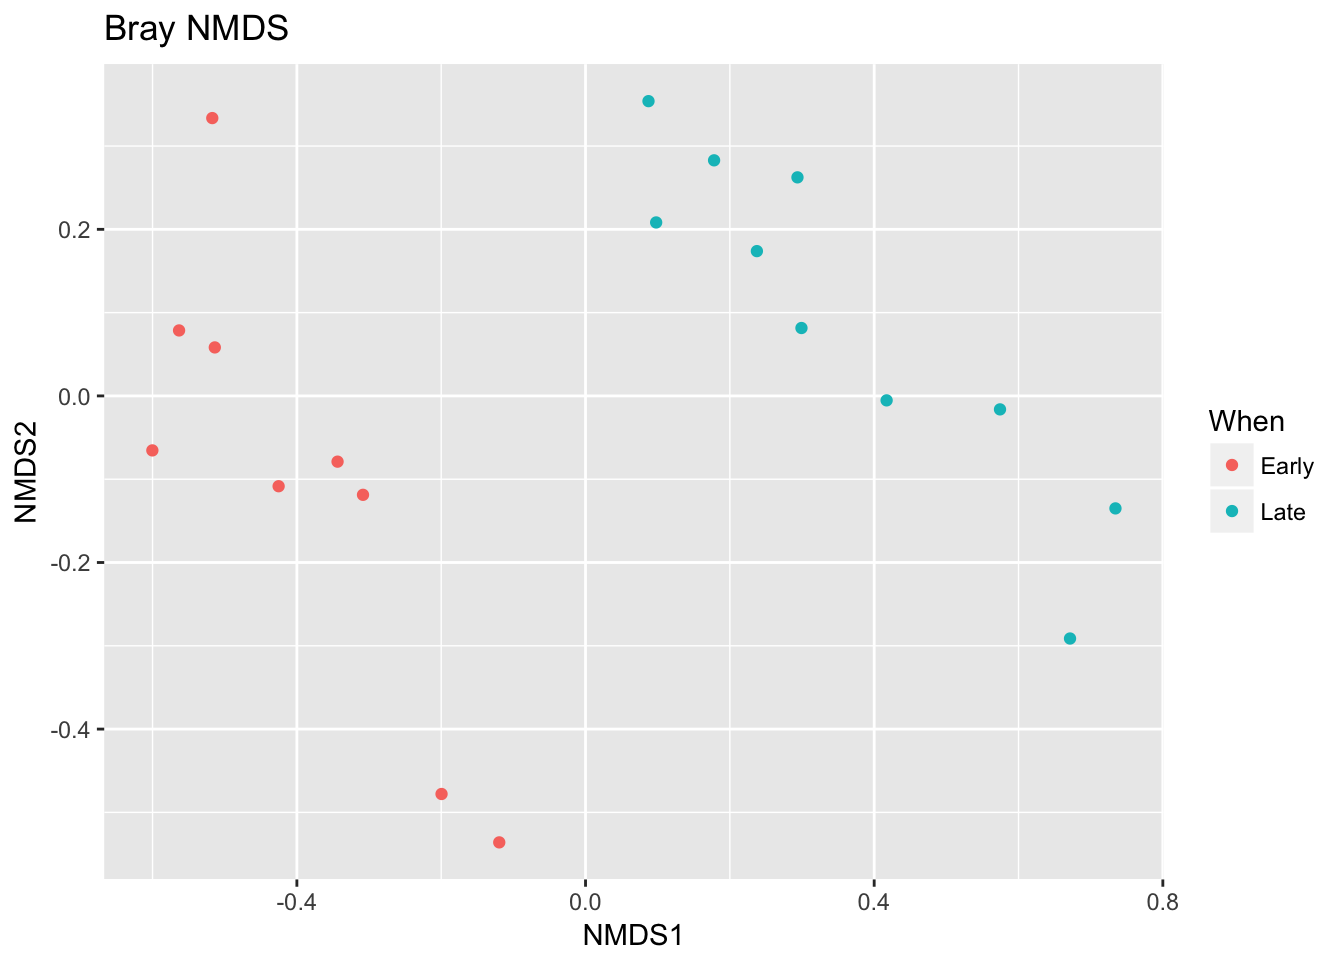
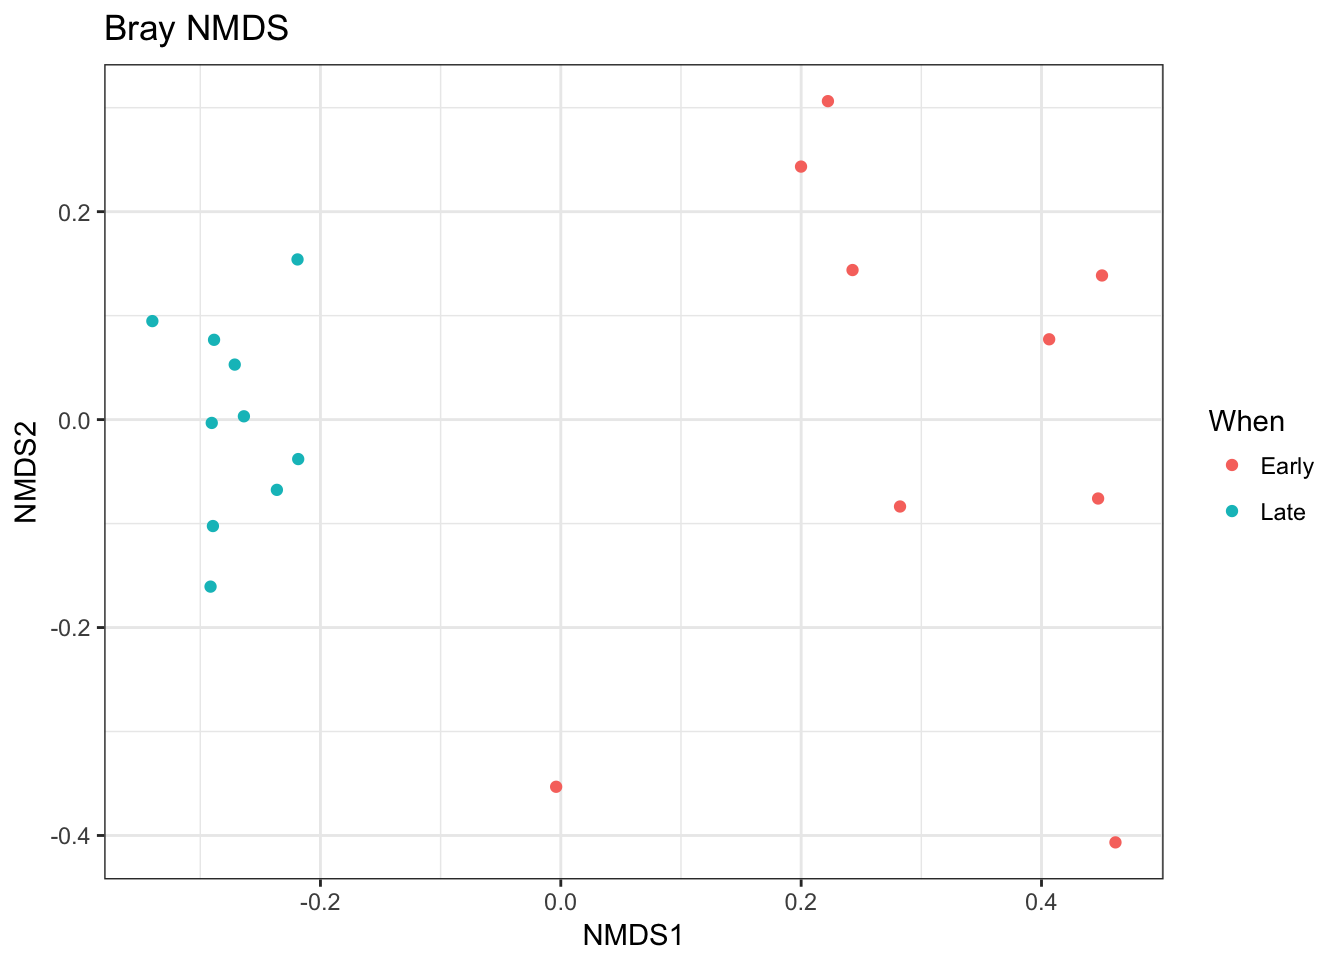
Tutorial update for 1.8
Also added logo to main page

diff --git a/tutorial_1_8.html b/tutorial_1_8.html
@@ -330,14 +330,14 @@ sample.names &lt;- sapply(strsplit(basename(fnFs), &quot;_&quot;), `[`, 1)</code
 <pre class="r"><code>plotQualityProfile(fnFs[1:2])</code></pre>
 <pre><code>## Scale for &#39;y&#39; is already present. Adding another scale for &#39;y&#39;, which
 ## will replace the existing scale.</code></pre>
-<p><img src="tutorial_files/figure-html/see-quality-F-1.png" width="672" /></p>
+<p><img src="tutorial_1_8_files/figure-html/see-quality-F-1.png" width="672" /></p>
 <p>In gray-scale is a heat map of the frequency of each quality score at each base position. The median quality score at each position is shown by the green line, and the quartiles of the quality score distribution by the orange lines. The red line shows the scaled proportion of reads that extend to at least that position (this is more useful for other sequencing technologies, as Illumina reads are typically all the same lenghth, hence the flat red line).</p>
 <p>The forward reads are good quality. We generally advise trimming the last few nucleotides to avoid less well-controlled errors that can arise there. These quality profiles do not suggest that any additional trimming is needed. We will truncate the forward reads at position 240 (trimming the last 10 nucleotides).</p>
 <p>Now we visualize the quality profile of the reverse reads:</p>
 <pre class="r"><code>plotQualityProfile(fnRs[1:2])</code></pre>
 <pre><code>## Scale for &#39;y&#39; is already present. Adding another scale for &#39;y&#39;, which
 ## will replace the existing scale.</code></pre>
-<p><img src="tutorial_files/figure-html/see-quality-R-1.png" width="672" /></p>
+<p><img src="tutorial_1_8_files/figure-html/see-quality-R-1.png" width="672" /></p>
 <p>The reverse reads are of significantly worse quality, especially at the end, which is common in Illumina sequencing. This isn’t too worrisome, as DADA2 incorporates quality information into its error model which makes the algorithm <a href="https://twitter.com/bejcal/status/771010634074820608">robust to lower quality sequence</a>, but trimming as the average qualities crash will improve the algorithm’s sensitivity to rare sequence variants. Based on these profiles, we will truncate the reverse reads at position 160 where the quality distribution crashes.</p>
 <div style="border: 1px solid red;padding: 5px;background-color: #fff6f6;">
 <strong><span style="color:red">Considerations for your own data:</span></strong> <strong>Your reads must still overlap after truncation in order to merge them later!</strong> The tutorial is using 2x250 V4 sequence data, so the forward and reverse reads almost completely overlap and our trimming can be completely guided by the quality scores. If you are using a less-overlapping primer set, like V1-V2 or V3-V4, your <code>truncLen</code> must be large enough to maintain <code>20 + biological.length.variation</code> nucleotides of overlap between them.
@@ -396,7 +396,7 @@ head(out)</code></pre>
 ## Convergence after  7  rounds.</code></pre>
 <p>It is always worthwhile, as a sanity check if nothing else, to visualize the estimated error rates:</p>
 <pre class="r"><code>plotErrors(errF, nominalQ=TRUE)</code></pre>
-<p><img src="tutorial_files/figure-html/plot-errors-1.png" width="672" /></p>
+<p><img src="tutorial_1_8_files/figure-html/plot-errors-1.png" width="672" /></p>
 <p>The error rates for each possible transition (A→C, A→G, …) are shown. Points are the observed error rates for each consensus quality score. The black line shows the estimated error rates after convergence of the machine-learning algorithm. The red line shows the error rates expected under the nominal definition of the Q-score. Here the estimated error rates (black line) are a good fit to the observed rates (points), and the error rates drop with increased quality as expected. Everything looks reasonable and we proceed with confidence.</p>
 <div style="border: 1px solid red;padding: 5px;background-color: #fff6f6;">
 <strong><span style="color:red">Considerations for your own data:</span></strong> Parameter learning is computationally intensive, so by default the <code>learnErrors</code> function uses only a subset of the data (the first 100M bases). If you are working with a large dataset and the plotted error model does not look like a good fit, you can try increasing the <code>nbases</code> parameter to see if the fit improves.
@@ -688,56 +688,48 @@ ps</code></pre>
 <p>We are now ready to use phyloseq!</p>
 <p><strong>Visualize alpha-diversity</strong>:</p>
 <pre class="r"><code>plot_richness(ps, x=&quot;Day&quot;, measures=c(&quot;Shannon&quot;, &quot;Simpson&quot;), color=&quot;When&quot;)</code></pre>
-<p><img src="tutorial_files/figure-html/richness-1.png" width="672" /></p>
+<p><img src="tutorial_1_8_files/figure-html/richness-1.png" width="672" /></p>
 <p>No obvious systematic difference in alpha-diversity between early and late samples.</p>
 <p><strong>Ordinate</strong>:</p>
 <pre class="r"><code># Transform data to proportions as appropriate for Bray-Curtis distances
 ps.prop &lt;- transform_sample_counts(ps, function(otu) otu/sum(otu))
 ord.nmds.bray &lt;- ordinate(ps.prop, method=&quot;NMDS&quot;, distance=&quot;bray&quot;)</code></pre>
 <pre><code>## Run 0 stress 0.08072627 
-## Run 1 stress 0.08053054 
+## Run 1 stress 0.35577 
+## Run 2 stress 0.08602577 
+## Run 3 stress 0.08602577 
+## Run 4 stress 0.08602577 
+## Run 5 stress 0.08053038 
 ## ... New best solution
-## ... Procrustes: rmse 0.00902636  max resid 0.02957712 
-## Run 2 stress 0.08072255 
-## ... Procrustes: rmse 0.00839825  max resid 0.02749623 
-## Run 3 stress 0.08995024 
-## Run 4 stress 0.1214508 
-## Run 5 stress 0.08995028 
-## Run 6 stress 0.08072681 
-## ... Procrustes: rmse 0.009139124  max resid 0.02979123 
-## Run 7 stress 0.1214508 
-## Run 8 stress 0.08053039 
-## ... New best solution
-## ... Procrustes: rmse 0.0002411851  max resid 0.0006681851 
+## ... Procrustes: rmse 0.009095294  max resid 0.02978305 
+## Run 6 stress 0.08995028 
+## Run 7 stress 0.09462672 
+## Run 8 stress 0.08602577 
+## Run 9 stress 0.1214508 
+## Run 10 stress 0.08995056 
+## Run 11 stress 0.1214509 
+## Run 12 stress 0.121451 
+## Run 13 stress 0.09462672 
+## Run 14 stress 0.08072671 
+## ... Procrustes: rmse 0.009126877  max resid 0.02974015 
+## Run 15 stress 0.08602577 
+## Run 16 stress 0.09462672 
+## Run 17 stress 0.0805306 
+## ... Procrustes: rmse 0.0002661163  max resid 0.0007347384 
 ## ... Similar to previous best
-## Run 9 stress 0.1327653 
-## Run 10 stress 0.09462679 
-## Run 11 stress 0.08602582 
-## Run 12 stress 0.08072013 
-## ... Procrustes: rmse 0.008107359  max resid 0.02656825 
-## Run 13 stress 0.08602685 
-## Run 14 stress 0.1325441 
-## Run 15 stress 0.08072793 
-## ... Procrustes: rmse 0.00941215  max resid 0.03062796 
-## Run 16 stress 0.08995039 
-## Run 17 stress 0.08053084 
-## ... Procrustes: rmse 0.0003552472  max resid 0.0009627563 
-## ... Similar to previous best
-## Run 18 stress 0.08995034 
-## Run 19 stress 0.08071828 
-## ... Procrustes: rmse 0.007751205  max resid 0.02548007 
-## Run 20 stress 0.08072619 
-## ... Procrustes: rmse 0.008979075  max resid 0.02927728 
+## Run 18 stress 0.1214512 
+## Run 19 stress 0.08602578 
+## Run 20 stress 0.1335535 
 ## *** Solution reached</code></pre>
 <pre class="r"><code>plot_ordination(ps.prop, ord.nmds.bray, color=&quot;When&quot;, title=&quot;Bray NMDS&quot;)</code></pre>
-<p><img src="tutorial_files/figure-html/ordinate-1.png" width="672" /></p>
+<p><img src="tutorial_1_8_files/figure-html/ordinate-1.png" width="672" /></p>
 <p>Ordination picks out a clear separation between the early and late samples.</p>
 <p><strong>Bar plot</strong>:</p>
 <pre class="r"><code>top20 &lt;- names(sort(taxa_sums(ps), decreasing=TRUE))[1:20]
 ps.top20 &lt;- transform_sample_counts(ps, function(OTU) OTU/sum(OTU))
 ps.top20 &lt;- prune_taxa(top20, ps.top20)
 plot_bar(ps.top20, x=&quot;Day&quot;, fill=&quot;Family&quot;) + facet_wrap(~When, scales=&quot;free_x&quot;)</code></pre>
-<p><img src="tutorial_files/figure-html/bar-plot-1.png" width="672" /></p>
+<p><img src="tutorial_1_8_files/figure-html/bar-plot-1.png" width="672" /></p>
 <p>Nothing glaringly obvious jumps out from the taxonomic distribution of the top 20 sequences to explain the early-late differentiation.</p>
 <p>These were minimal examples of what can be done with phyloseq, as our purpose here was just to show how the results of DADA2 can be easily imported into phyloseq and interrogated further. For examples of the many analyses possible with phyloseq, see <a href="https://joey711.github.io/phyloseq/">the phyloseq web site</a>!</p>
 </div>

diff --git a/index.html b/index.html
@@ -11,7 +11,7 @@
 
 
 
-<title>The DADA2 R package</title>
+<title></title>
 
 <script src="site_libs/jquery-1.11.3/jquery.min.js"></script>
 <meta name="viewport" content="width=device-width, initial-scale=1" />
@@ -263,16 +263,20 @@ $(document).ready(function () {
 
 
 
-<h1 class="title toc-ignore">The DADA2 R package</h1>
 
 </div>
 
 
+ 
+<center>
+<img src="images/DADA2_Logo_640.png" alt="The DADA2 R package" />
+</center>
+<hr />
 <div id="fast-and-accurate-sample-inference-from-amplicon-data-with-single-nucleotide-resolution" class="section level2">
 <h2>Fast and accurate sample inference from amplicon data with single-nucleotide resolution</h2>
 <hr />
-<div id="higher-sensitivity-to-rare-variants-via-priors-and-pseudo-pooling-introduced-in-dada2-version-1.7.5." class="section level4">
-<h4><strong><span style="color:red">Higher sensitivity to rare variants via <a href="pseudo.html">priors and pseudo-pooling</a> introduced in dada2 version 1.7.5.</span></strong></h4>
+<div id="higher-sensitivity-to-rare-variants-via-priors-and-pseudo-pooling-introduced-in-dada2-version-1.8." class="section level4">
+<h4><strong><span style="color:red">Higher sensitivity to rare variants via <a href="pseudo.html">priors and pseudo-pooling</a> introduced in dada2 version 1.8.</span></strong></h4>
 <p> </p>
 </div>
 </div>
